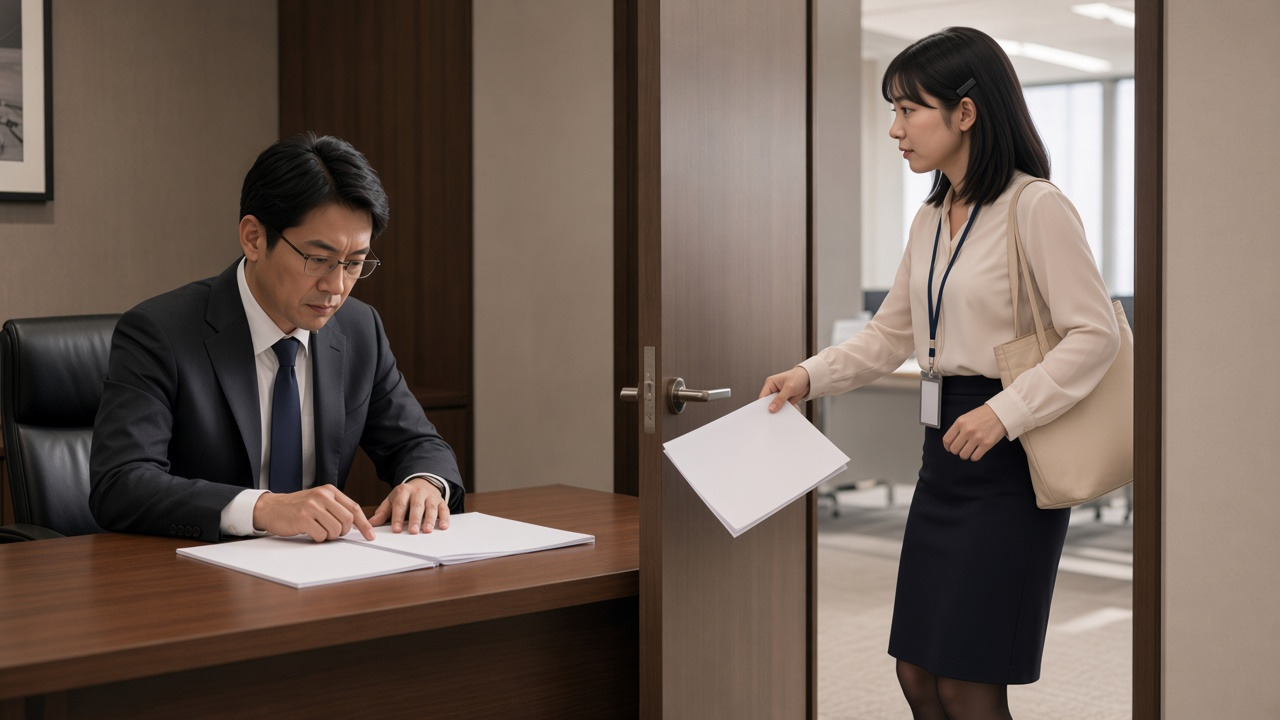
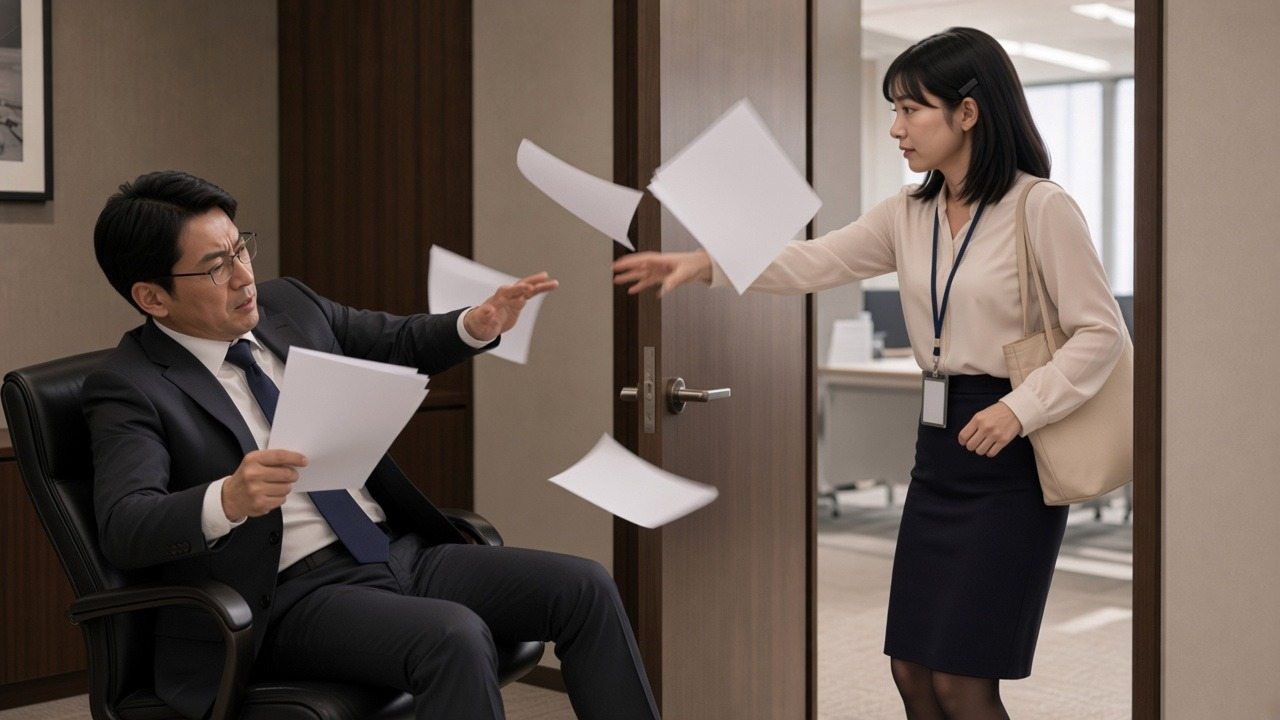
h3 episode: show the hit, not the aftermath
Combat stills are now the impact frame. Trim keeps the last 6s, and if OOM shortens the clip the window slides so it still ends on last_frame. Drop the old 01 raw before the next run so 03 can chain from the cover still.

diff --git a/colab/test_h3_episode.py b/colab/test_h3_episode.py
@@ -41,6 +41,7 @@ from h3_episode import (  # noqa: E402
     episode_root,
     expected_duration,
     finish_episode,
+    clip_window,
     forbidden_hits,
     is_ui_beat,
     load_episode,
@@ -426,7 +427,7 @@ def test_kasumi_late_desk_validates_and_stills_are_clean():
     assert validate_episode(ep, root=KASUMI_DIR) == []
     assert ep["tone"] == "action" and ep["violence"] == "game"
     assert len(ep["beats"]) == 12
-    assert expected_duration(ep) == pytest.approx(44.9, abs=0.2)
+    assert expected_duration(ep) == pytest.approx(47.9, abs=0.2)
     ids = [b["id"] for b in ep["beats"]]
     assert ids == [
         "01-cover",
@@ -450,7 +451,7 @@ def test_kasumi_late_desk_validates_and_stills_are_clean():
     assert beat_still_as(ep["beats"][0]) == "both"
     assert all(beat_still_as(ep["beats"][i]) == "last" for i in (2, 5, 9, 11))
     assert uses_last_still(ep["beats"][2]) and not uses_last_still(ep["beats"][3])
-    assert beat_window(ep, ep["beats"][2]) == (5.0, 5.0)
+    assert beat_window(ep, ep["beats"][2]) == (4.0, 6.0)
     assert ep["beats"][5]["source"] == "still" and beat_still_as(ep["beats"][5]) == "last"
     assert ep["beats"][9]["source"] == "still" and beat_still_as(ep["beats"][9]) == "last"
     assert ep["beats"][6]["source"] == "chain" and ep["beats"][6].get("face_visible")
@@ -473,6 +474,18 @@ def test_kasumi_late_desk_validates_and_stills_are_clean():
         if "prfight2" in prompt:
             assert prompt.startswith("DY\nprfight2, prfin1")
         assert "badges carry no readable letters" in prompt
+
+
+def test_clip_window_slides_last_frame_trim_when_oom_shortens(tmp_path):
+    ep = load_episode(KASUMI_DIR / "episode.json")
+    shove = next(b for b in ep["beats"] if b["id"] == "03-shove")
+    assert clip_window(ep, shove, 10.0) == (4.0, 6.0)
+    assert clip_window(ep, shove, 8.0) == (2.0, 6.0)
+    assert clip_window(ep, shove, 6.0) == (0.0, 6.0)
+    files = next(b for b in ep["beats"] if b["id"] == "06-files")
+    assert clip_window(ep, files, 8.0) == (2.0, 6.0)
+    peek = next(b for b in ep["beats"] if b["id"] == "04-peek")
+    assert clip_window(ep, peek, 8.0) == (0.0, 4.0)
 
 
 def test_bootstrap_refreshes_stale_episode_json_keeps_stills(tmp_path, monkeypatch):
@@ -512,7 +525,7 @@ def test_bootstrap_refreshes_stale_episode_json_keeps_stills(tmp_path, monkeypat
         "12-desk",
     ]
     assert kept.read_bytes() == b"keep-me"
-    assert expected_duration(load_episode(drive / "episode.json")) == pytest.approx(44.9, abs=0.2)
+    assert expected_duration(load_episode(drive / "episode.json")) == pytest.approx(47.9, abs=0.2)
 
 
 def test_bootstrap_keeps_drive_json_when_github_fails(tmp_path, monkeypatch):

diff --git a/colab/h3_episode.py b/colab/h3_episode.py
@@ -285,6 +285,24 @@ def beat_window(ep: dict[str, Any], beat: dict[str, Any]) -> tuple[float, float]
     return start, seconds
 
 
+def clip_window(ep: dict[str, Any], beat: dict[str, Any], clip_duration: float) -> tuple[float, float]:
+    """Map authored trim onto an actual raw duration.
+
+    still_as last always ends on the last frame (the still). If OOM shortened the
+    clip, slide start earlier so the window keeps its length instead of a 3s tail.
+    """
+    start, seconds = beat_window(ep, beat)
+    full = float(clip_duration)
+    if full <= 0:
+        return start, seconds
+    seconds = min(max(seconds, 0.0), full)
+    if uses_last_still(beat):
+        return max(0.0, full - seconds), seconds
+    if start > full - 0.5:
+        start = max(0.0, full - seconds)
+    return start, min(seconds, max(0.0, full - start))
+
+
 def card_seconds(ep: dict[str, Any]) -> dict[str, float]:
     cards = ep.get("cards") or {}
     fail = cards.get("fail") or {}
@@ -1419,7 +1437,7 @@ def previous_footage(ep: dict[str, Any], idx: int, root: Path, raw: Path, *, app
         clip = raw / f"{prev['id']}.mp4"
         if not clip.is_file():
             raise EpisodeError(f"{beats[idx]['id']}: needs the previous clip first: {clip}")
-        start, seconds = beat_window(ep, prev) if apply_trim else (0.0, probe_duration(clip))
+        start, seconds = clip_window(ep, prev, probe_duration(clip)) if apply_trim else (0.0, probe_duration(clip))
         return clip, start + seconds - 0.12
     raise EpisodeError(f"{beats[idx]['id']}: no footage before this beat")
 
@@ -1507,7 +1525,7 @@ def finish_episode(ep: dict[str, Any], root: Path | str, *, raw_dir: Path | str 
             src = raw / f"{beat['id']}.mp4"
             if not src.is_file():
                 raise EpisodeError(f"raw clip missing: {src}")
-            start, seconds = beat_window(ep, beat) if apply_trim else (0.0, probe_duration(src))
+            start, seconds = clip_window(ep, beat, probe_duration(src)) if apply_trim else (0.0, probe_duration(src))
         pngs = hud_pngs(ep, beat, out_size, png_dir, window_s=seconds)
         dest = root / "hud" / f"{beat['id']}.mp4"
         compose_beat(

diff --git a/minimaxh3/h3_episode.py b/minimaxh3/h3_episode.py
@@ -285,6 +285,24 @@ def beat_window(ep: dict[str, Any], beat: dict[str, Any]) -> tuple[float, float]
     return start, seconds
 
 
+def clip_window(ep: dict[str, Any], beat: dict[str, Any], clip_duration: float) -> tuple[float, float]:
+    """Map authored trim onto an actual raw duration.
+
+    still_as last always ends on the last frame (the still). If OOM shortened the
+    clip, slide start earlier so the window keeps its length instead of a 3s tail.
+    """
+    start, seconds = beat_window(ep, beat)
+    full = float(clip_duration)
+    if full <= 0:
+        return start, seconds
+    seconds = min(max(seconds, 0.0), full)
+    if uses_last_still(beat):
+        return max(0.0, full - seconds), seconds
+    if start > full - 0.5:
+        start = max(0.0, full - seconds)
+    return start, min(seconds, max(0.0, full - start))
+
+
 def card_seconds(ep: dict[str, Any]) -> dict[str, float]:
     cards = ep.get("cards") or {}
     fail = cards.get("fail") or {}
@@ -1419,7 +1437,7 @@ def previous_footage(ep: dict[str, Any], idx: int, root: Path, raw: Path, *, app
         clip = raw / f"{prev['id']}.mp4"
         if not clip.is_file():
             raise EpisodeError(f"{beats[idx]['id']}: needs the previous clip first: {clip}")
-        start, seconds = beat_window(ep, prev) if apply_trim else (0.0, probe_duration(clip))
+        start, seconds = clip_window(ep, prev, probe_duration(clip)) if apply_trim else (0.0, probe_duration(clip))
         return clip, start + seconds - 0.12
     raise EpisodeError(f"{beats[idx]['id']}: no footage before this beat")
 
@@ -1507,7 +1525,7 @@ def finish_episode(ep: dict[str, Any], root: Path | str, *, raw_dir: Path | str 
             src = raw / f"{beat['id']}.mp4"
             if not src.is_file():
                 raise EpisodeError(f"raw clip missing: {src}")
-            start, seconds = beat_window(ep, beat) if apply_trim else (0.0, probe_duration(src))
+            start, seconds = clip_window(ep, beat, probe_duration(src)) if apply_trim else (0.0, probe_duration(src))
         pngs = hud_pngs(ep, beat, out_size, png_dir, window_s=seconds)
         dest = root / "hud" / f"{beat['id']}.mp4"
         compose_beat(

diff --git a/minimaxh3/episodes/README.md b/minimaxh3/episodes/README.md
@@ -109,7 +109,7 @@ python h3_episode.py finish  /path/to/episodes/<slug>                 # raw/*.mp
 
 ## 霞東フロア（`kasumi-late-desk`）
 
-約 50 秒（12 ビート ≈ 44.9 秒）。朝に遅刻した成人 OL が、警備・課長・同僚の四択を△（オフィス用品の体当たり）で抜けて自席へつく。失敗は「隣の席に座った」。借りるのはカバー・覗き・コマンド・失敗カードの文法だけ。参照の mp4 は使わない。15秒 LoRA は足さない。
+約 50 秒（12 ビート ≈ 47.9 秒）。朝に遅刻した成人 OL が、警備・課長・同僚の四択を△（オフィス用品の体当たり）で抜けて自席へつく。失敗は「隣の席に座った」。借りるのはカバー・覗き・コマンド・失敗カードの文法だけ。参照の mp4 は使わない。15秒 LoRA は足さない。
 カバー → コマンド警備 → トート体当たり → 覗き → コマンド課長 → ファイル払い → コピーです → 席列 → コマンド同僚 → マグ → かばん → 着席 → 失敗。
 `tone: action`、`violence: game`。格闘3本だけ `extra_loras: ["combat"]` と `prfight2, prfin1`、euler+beta 12step。03/06/10/12 のスチールは last_frame（同じ場所の着地）。覗き・席列は切ってスチール先頭。Larry の後ろに積む。turbo とは同時に積まない。しゃがみカバーは横向き。Colab は `EPISODE = "kasumi-late-desk"`（マージ前は `BRANCH` をこの PR ブランチ）。inbox には置かない。台本は `episodes/kasumi-late-desk/SCRIPT.md`。準備は `PREP.md`。初回の 5 ビート ≈ 24.7 秒は Drive の `episode.json` に残ると連結がそこで終わる。bootstrap はブランチから取り直す。
 

diff --git a/minimaxh3/episodes/kasumi-late-desk/PREP.md b/minimaxh3/episodes/kasumi-late-desk/PREP.md
@@ -65,6 +65,7 @@
 | 19 | 格闘がスローモーションになる | 名前を出すと描くので「slow motion」は書かない。physics に real-time cutscene speed。動作は walking-and-hit pace。01 の slowly walk と 07 の very slow push-in を外した |
 
 | 20 | スチールを先頭にするとカットがポスターから動き出す | 同じ場所の続き（03/06/10/12）は `still_as: last`。先頭は前の切った位置、スチールは last_frame。場所が変わる覗き・席列は切ってスチールを先頭。カバーは both。窓は 10 秒の尻側（着地が見える） |
+| 21 | 三戦の命中が映像に残らない | 着地スチールを命中の瞬間に描き直した。trim は末尾 6 秒（4.0+6.0）。OOM で 8 秒になったら `clip_window` が開始を前にずらして末尾 6 秒を残す。01 の古い raw は捨てて焼き直す（03 が chain するため） |
 
 残るリスク: GPU 本番をまだ回していない。chain 03 は 01 の 3 秒時点の顔を引き継ぐ（01 がにじむとそのまま）。12step でも OOM したら秒数だけ 10→8→6。last_frame は着地をロックするので、スチールより先の座り込みはそのカットでは出ない。
 

diff --git a/minimaxh3/episodes/kasumi-late-desk/README.md b/minimaxh3/episodes/kasumi-late-desk/README.md
@@ -2,7 +2,7 @@
 
 約 50 秒。朝に遅刻した成人 OL が、四択コマンドを△で抜けて自席へつく架空ゲームの予告。
 本線は警備トート → 課長ファイル → 同僚マグ。口は「コピー です」。失敗は「隣の席に座った」。
-しゃがみは横向き。首と胴が同じ方向。03 は 01 から chain。スチールは着地（last_frame）。格闘は euler+beta 12step。名札は無地。実時間。
+しゃがみは横向き。首と胴が同じ方向。03 は 01 から chain。スチールは着地（last_frame）。格闘の着地は命中の瞬間。窓は末尾 6 秒。名札は無地。実時間。
 
 理想台本（四択の中身とビジネス最適ルート）は `SCRIPT.md`。問題と対策は `PREP.md`。
 
